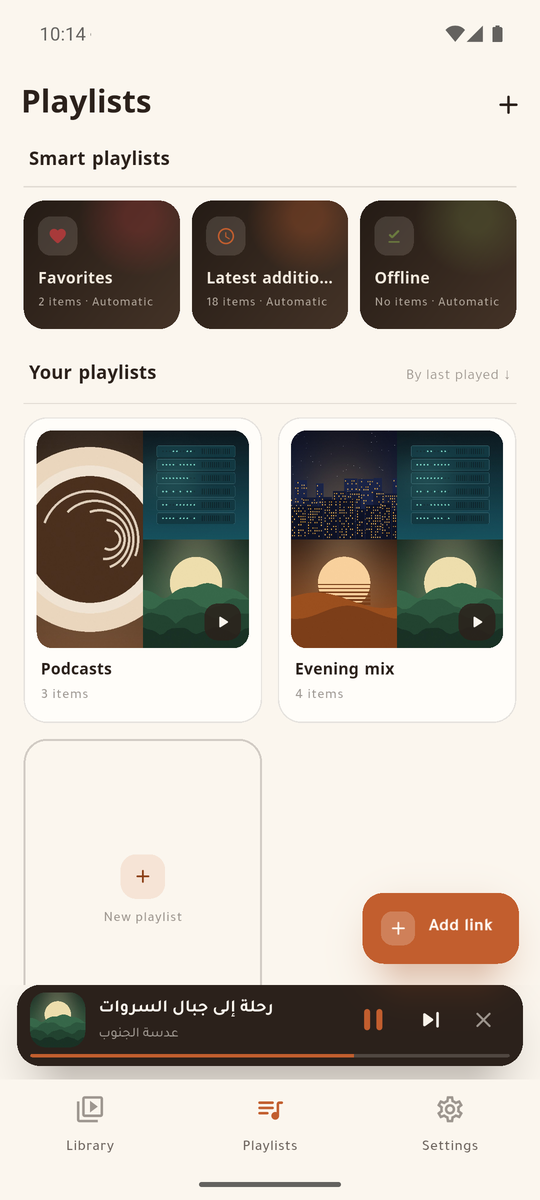
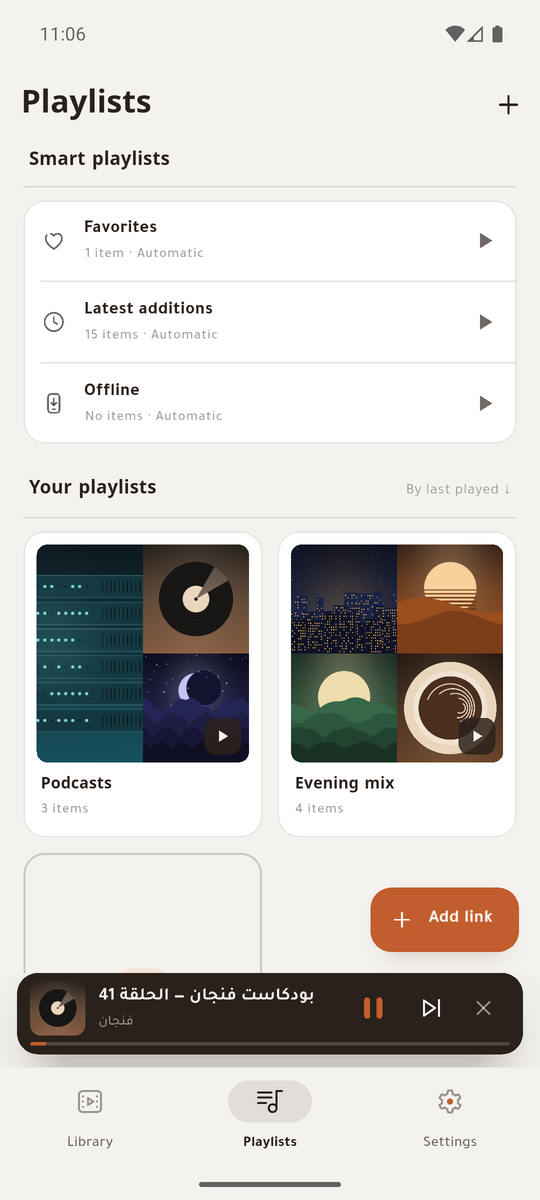
site: MeTube Ember for Windows, a third app card, and fresh screenshots

diff --git a/index.html b/index.html
@@ -3,12 +3,12 @@
 <head>
 <meta charset="utf-8">
 <meta name="viewport" content="width=device-width, initial-scale=1">
-<title>MeTube Mobile — Android clients for a self-hosted MeTube server</title>
-<meta name="description" content="Two open-source Android apps for a self-hosted MeTube (yt-dlp) server. MeTube Lite pulls each download to your phone and clears the server; MeTube Super keeps files on the server, streams them, and searches inside your clips by what was said. Arabic and English, phones and tablets, GPL-3.0.">
+<title>MeTube Mobile — Android and Windows clients for a self-hosted MeTube server</title>
+<meta name="description" content="Open-source apps for a self-hosted MeTube (yt-dlp) server: MeTube Lite pulls each download to your phone and clears the server; MeTube Super keeps files on the server, streams them, and searches inside your clips by what was said; MeTube Ember brings the same library to Windows. Arabic and English, phones, tablets and Windows, GPL-3.0.">
 <link rel="canonical" href="https://sagheerys.github.io/metube-mobile/">
 <meta property="og:type" content="website">
-<meta property="og:title" content="MeTube Mobile — Android clients for MeTube">
-<meta property="og:description" content="Queue a link from your phone, then keep the file on your server and stream it, or pull it to the device and let the server clean itself up.">
+<meta property="og:title" content="MeTube Mobile — Android and Windows clients for MeTube">
+<meta property="og:description" content="Queue a link from your phone or your computer, then keep the file on your server and stream it, or pull it to the device and let the server clean itself up.">
 <meta property="og:url" content="https://sagheerys.github.io/metube-mobile/">
 <meta property="og:image" content="https://sagheerys.github.io/metube-mobile/screenshots/hero.jpg">
 <meta property="og:image:width" content="2000">
@@ -145,6 +145,11 @@ body{transition:background-color .25s ease,color .25s ease}
 @media (prefers-reduced-motion: reduce){body{transition:none}}
 /* ── Tablets: two sideways screens beside an upright one, sized so the
       pair and the single end at the same height; stacked on a phone. ── */
+.ember-shots{display:grid;gap:22px;margin-top:22px}
+.ember-shots .phone img{border-radius:12px}
+@media (min-width:760px){.ember-shots{grid-template-columns:1fr 1fr}.ember-shots .wide{grid-column:1 / -1}}
+.ember{--accent:var(--super)}
+@media (min-width:1100px){.apps.three{grid-template-columns:1fr 1fr 1fr}}
 .tablets{display:grid;gap:22px;margin-top:22px}
 .tablets .phone img{border-radius:16px}
 .tablets .tall{max-width:340px;justify-self:center;width:100%}
@@ -164,15 +169,15 @@ footer{margin-top:56px;border-top:1px solid var(--line);padding-top:22px;font-si
 
   <header class="hero">
     <div>
-      <span class="tag">Unofficial · GPL-3.0 · Android</span>
+      <span class="tag">Unofficial · GPL-3.0 · Android · Windows</span>
       <h1>MeTube Mobile</h1>
-      <p class="lead">Two Android apps for a self-hosted
+      <p class="lead">Two Android apps and a Windows app for a self-hosted
         <a href="https://github.com/alexta69/metube">MeTube</a> server — the yt-dlp
-        web downloader you already run on your NAS or homelab. Share a link from
-        your phone, and either keep the file on the server and stream it, or pull it
-        to the device and let the server clean itself up.</p>
+        web downloader you already run on your NAS or homelab. Send a link from
+        your phone or your computer, and either keep the file on the server and
+        stream it, or pull it to the device and let the server clean itself up.</p>
       <div class="cta">
-        <a class="btn btn-main" href="https://github.com/sagheerys/metube-mobile/releases/latest">Download the APKs</a>
+        <a class="btn btn-main" href="https://github.com/sagheerys/metube-mobile/releases/latest">Download</a>
         <a class="btn btn-ghost" href="https://github.com/sagheerys/metube-mobile">Source on GitHub</a>
       </div>
       <p class="note">Listed in MeTube's own README, under
@@ -187,23 +192,57 @@ footer{margin-top:56px;border-top:1px solid var(--line);padding-top:22px;font-si
     </figure>
   </header>
 
+  <h2>New: MeTube Ember, on Windows</h2>
+  <p>The owner's app on a computer, reading the same server as MeTube Super: the
+     library as a grid, a table or a compact list; the transcript following the
+     video beside it; <kbd>Ctrl</kbd>+<kbd>K</kbd> to search the titles and what was
+     said; a reading room, a mini window, channels and their arrivals, and copies
+     to your computer by download, by drag to Explorer, or with
+     <kbd>Ctrl</kbd>+<kbd>Shift</kbd>+<kbd>C</kbd>. It installs for your user only,
+     with no administrator rights, and updates itself.</p>
+  <div class="ember-shots">
+    <figure class="phone wide">
+      <picture>
+        <source srcset="screenshots/ember-player-night.jpg" media="(prefers-color-scheme: dark)">
+        <img loading="lazy" src="screenshots/ember-player.jpg" width="1600" height="940" alt="MeTube Ember: a video playing, with the transcript beside it marking the line being said, and the player bar beneath">
+      </picture>
+      <figcaption><strong>Watch and read</strong>The transcript follows the video; click a line to jump there.</figcaption>
+    </figure>
+    <figure class="phone">
+      <img loading="lazy" src="screenshots/ember-library.jpg" width="1600" height="940" alt="The MeTube Ember library as a grid of covers, with chips for favourites, video, audio and shorts">
+      <figcaption><strong>Your library</strong>A grid, a table or a compact list.</figcaption>
+    </figure>
+    <figure class="phone">
+      <img loading="lazy" src="screenshots/ember-palette.jpg" width="1600" height="940" alt="The Ctrl+K palette over the library, listing commands">
+      <figcaption><strong>Ctrl+K</strong>Search what was said, or run any command.</figcaption>
+    </figure>
+    <figure class="phone">
+      <img loading="lazy" src="screenshots/ember-channels.jpg" width="1600" height="940" alt="The channels page: four followed channels with what each has brought, and channels in the library to follow">
+      <figcaption><strong>Channels</strong>What each followed channel has brought.</figcaption>
+    </figure>
+    <figure class="phone">
+      <img loading="lazy" src="screenshots/ember-stats-night.jpg" width="1600" height="940" alt="Library statistics at night: clips, room taken, running time, by site, month and channel">
+      <figcaption><strong>Library statistics</strong>What the library holds; nothing is deleted from here.</figcaption>
+    </figure>
+  </div>
+
   <h2>A look inside</h2>
   <p class="note">Every title, channel and cover below is invented for these screenshots; no real server or account appears in them.</p>
   <div class="rail wrap" aria-label="Screenshots of MeTube Super">
     <figure class="phone">
       <picture>
         <source srcset="screenshots/super-search-night.png" media="(prefers-color-scheme: dark)">
-        <img loading="lazy" src="screenshots/super-search.png" width="540" height="1200" alt="A library search for the word backup: one title match, then the lines inside three clips where the word was said, each with its timestamp and the word highlighted">
+        <img loading="lazy" src="screenshots/super-search.png" width="540" height="1200" alt="A library search for the word backup: the lines inside two clips where the word was said, each with its timestamp and the word highlighted">
       </picture>
       <figcaption><strong>Search what was said</strong>Find a word inside your clips, not just in titles, and tap to play from that moment.</figcaption>
     </figure>
     <figure class="phone">
-      <img loading="lazy" src="screenshots/super-transcript.png" width="540" height="1200" alt="The full transcript of an audio episode beneath the player, with the line being spoken marked">
+      <img loading="lazy" src="screenshots/super-transcript.png" width="540" height="1200" alt="The full transcript of a clip over the video, with the line being said marked">
       <figcaption><strong>Read along</strong>The transcript follows playback; tap any line to jump there.</figcaption>
     </figure>
     <figure class="phone">
-      <img loading="lazy" src="screenshots/super-subscriptions.png" width="540" height="1200" alt="Subscriptions: four followed channels, each with how often it is checked, its quality and when it was last checked, one of them paused">
-      <figcaption><strong>Follow a channel</strong>Your server fetches each new video by itself; one notice says what arrived.</figcaption>
+      <img loading="lazy" src="screenshots/super-subscriptions.png" width="540" height="1200" alt="The playlists tab: your tags, then your channels with what each has brought and a switch to pause it">
+      <figcaption><strong>Follow a channel</strong>Your server fetches each new video by itself; one notice says what a subscription brought.</figcaption>
     </figure>
     <figure class="phone">
       <img loading="lazy" src="screenshots/super-player.png" width="540" height="1200" alt="A video streaming from the server with a subtitle over the picture, and the actions and up-next queue beneath it">
@@ -219,7 +258,7 @@ footer{margin-top:56px;border-top:1px solid var(--line);padding-top:22px;font-si
     <figure class="phone">
       <picture>
         <source srcset="screenshots/super-playlists-night.png" media="(prefers-color-scheme: dark)">
-        <img loading="lazy" src="screenshots/super-playlists-day.png" width="540" height="1200" alt="Playlists: three automatic lists above the user's own, each with a cover mosaic">
+        <img loading="lazy" src="screenshots/super-playlists-day.png" width="540" height="1200" alt="Playlists: three automatic lists as rows above the user's own, each with a cover mosaic">
       </picture>
       <figcaption><strong>Playlists</strong>Favourites, latest and offline build themselves; yours sit beneath.</figcaption>
     </figure>
@@ -232,12 +271,12 @@ footer{margin-top:56px;border-top:1px solid var(--line);padding-top:22px;font-si
       <figcaption><strong>Up next, at night</strong>A full night palette, not a half-dark screen.</figcaption>
     </figure>
     <figure class="phone">
-      <img loading="lazy" src="screenshots/super-select.png" width="540" height="1200" alt="Four library items selected, with actions for playlist, tag and delete">
-      <figcaption><strong>Batch actions</strong>Select many: add to a playlist, tag, or delete from the server.</figcaption>
+      <img loading="lazy" src="screenshots/super-reading.png" width="540" height="1200" alt="Reading mode: a clip's transcript as one paragraph, with the sentence being said marked">
+      <figcaption><strong>Read it instead</strong>A clip's words as an article; tap a sentence to hear it from there.</figcaption>
     </figure>
     <figure class="phone">
-      <img loading="lazy" src="screenshots/super-playlist.png" width="540" height="1200" alt="One playlist with play all, shuffle and audio-only buttons">
-      <figcaption><strong>Play all, or just listen</strong>Any playlist plays as video or as audio only.</figcaption>
+      <img loading="lazy" src="screenshots/super-channel.png" width="540" height="1200" alt="One channel's page: how often it is checked, its quality, and its clips in the library">
+      <figcaption><strong>A channel's own page</strong>Check now, pause, edit, and its clips in your library.</figcaption>
     </figure>
     <figure class="phone">
       <img loading="lazy" src="screenshots/lite-shorts.png" width="540" height="1200" alt="The shorts player showing a portrait clip with details, add-to and share">
@@ -267,7 +306,7 @@ footer{margin-top:56px;border-top:1px solid var(--line);padding-top:22px;font-si
   </div>
 
   <h2>Which app is for you</h2>
-  <div class="apps">
+  <div class="apps three">
     <section class="app lite">
       <div class="app-head">
         <h3>MeTube Lite</h3>
@@ -293,8 +332,20 @@ footer{margin-top:56px;border-top:1px solid var(--line);padding-top:22px;font-si
         <dt>Also has</dt><dd>Channel subscriptions — the server fetches each new video by itself and the app tells you when it arrives — plus subtitles over the video, tags, batch downloads, make available offline, a server card that says what the server holds and runs, and two addresses it switches between.</dd>
       </dl>
     </section>
+    <section class="app ember">
+      <div class="app-head">
+        <h3>MeTube Ember</h3>
+        <p class="for">For the same person, at a Windows computer.</p>
+      </div>
+      <dl>
+        <dt>After a download</dt><dd>Keeps everything on the server, and copies a clip to this computer when you ask.</dd>
+        <dt>Library</dt><dd>The same merged library, as a grid, a table or a compact list.</dd>
+        <dt>Playback</dt><dd>In the window, beside its transcript, or in a mini window on top.</dd>
+        <dt>Also has</dt><dd>Ctrl+K, a reading room, channels, drag a clip to Explorer, a "To Ember" button for your browser, and optional sync with MeTube Super through a folder you choose.</dd>
+      </dl>
+    </section>
   </div>
-  <p class="note" style="margin-top:14px">They are separate apps and install side by side.</p>
+  <p class="note" style="margin-top:14px">They are separate apps: the two phone apps install side by side, and Ember needs Windows 10 or 11 on x64.</p>
 
   <h2>MeTube Lite, start to finish</h2>
   <div class="split">
@@ -309,6 +360,7 @@ footer{margin-top:56px;border-top:1px solid var(--line);padding-top:22px;font-si
       <div class="rail pair" aria-label="Screenshots of MeTube Lite">
         <figure class="phone"><img loading="lazy" src="screenshots/lite-day.png" width="540" height="1200" alt="The MeTube Lite library by day"><figcaption>By day</figcaption></figure>
         <figure class="phone"><img loading="lazy" src="screenshots/lite-night.png" width="540" height="1200" alt="The MeTube Lite library at night"><figcaption>At night</figcaption></figure>
+        <figure class="phone"><img loading="lazy" src="screenshots/lite-playlists.png" width="540" height="1200" alt="MeTube Lite playlists: favourites and the latest additions as rows, then your own"><figcaption>Playlists</figcaption></figure>
       </div>
     </div>
     <figure class="phone">
@@ -317,12 +369,13 @@ footer{margin-top:56px;border-top:1px solid var(--line);padding-top:22px;font-si
     </figure>
   </div>
 
-  <h2>Shared by both</h2>
+  <h2>Shared by all three</h2>
   <ul>
     <li>Background audio with a media notification and lock-screen controls, a mini player, and a lane for portrait clips.</li>
     <li>Playlists, favourites, search, and plain-JSON backups that hold no secret.</li>
     <li>In-app updates, straight from the GitHub releases page.</li>
     <li>A tablet layout, upright and sideways: a side rail, two-pane settings, and the player beside the library.</li>
+    <li>Chips that put every clip under one of video, shorts or audio, so videos can be seen without the shorts.</li>
     <li>A day palette and a night palette, each drawn on purpose.</li>
     <li>Arabic and English, right-to-left first.</li>
   </ul>
@@ -342,7 +395,7 @@ footer{margin-top:56px;border-top:1px solid var(--line);padding-top:22px;font-si
 
   <h2>Links</h2>
   <ul>
-    <li><a href="https://github.com/sagheerys/metube-mobile/releases/latest">Latest release</a> — one signed APK per app</li>
+    <li><a href="https://github.com/sagheerys/metube-mobile/releases/latest">Latest release</a> — one file per app: two APKs and a Windows installer</li>
     <li><a href="https://github.com/sagheerys/metube-mobile">Repository</a> — a Flutter monorepo, GPL-3.0</li>
     <li><a href="https://github.com/sagheerys/metube-mobile/blob/main/CHANGELOG.md">Changelog</a></li>
     <li><a href="https://github.com/sagheerys/metube-mobile/issues">Issues</a> — in Arabic or English</li>
@@ -350,17 +403,22 @@ footer{margin-top:56px;border-top:1px solid var(--line);padding-top:22px;font-si
 
   <section class="ar" lang="ar" dir="rtl">
     <h2 style="margin-top:0">بالعربية</h2>
-    <p class="lead">تطبيقان لأندرويد لسيرفر
+    <p class="lead">تطبيقان لأندرويد وتطبيق لويندوز لسيرفر
       <a href="https://github.com/alexta69/metube">MeTube</a> الذي تستضيفه بنفسك.
-      شارك الرابط من جوالك، ثم إما أن يبقى الملف على السيرفر فتشغّله بثّاً، أو
-      يُسحب إلى جهازك ويُنظَّف السيرفر تلقائياً.</p>
+      أرسل الرابط من جوالك أو حاسوبك، ثم إما أن يبقى الملف على السيرفر فتشغّله
+      بثّاً، أو يُسحب إلى جهازك ويُنظَّف السيرفر تلقائياً.</p>
+
+    <figure class="phone" style="margin:22px 0 10px">
+      <img loading="lazy" src="screenshots/ember-library-ar.jpg" width="1600" height="940" style="border-radius:12px" alt="MeTube Ember بالعربية: المكتبة شبكةً من الأغلفة، والنص بجانب الفيديو">
+      <figcaption>جديد: MeTube Ember على ويندوز، بالواجهة العربية.</figcaption>
+    </figure>
 
     <figure class="phone" style="margin:22px 0 26px">
       <img loading="lazy" src="screenshots/hero-ar.jpg" width="2000" height="1137" style="border-radius:18px;border-width:1px" alt="MeTube Super بالعربية: المكتبة، ومقطع فيديو مع ترجمته وقائمة «التالي»، ومشغل الصوت ليلاً، وقوائم التشغيل">
       <figcaption>الواجهة العربية من اليمين إلى اليسار. كل عنوان وغلاف هنا مخترَع.</figcaption>
     </figure>
 
-    <div class="apps">
+    <div class="apps three">
       <section class="app lite">
         <div class="app-head">
           <h3>MeTube Lite</h3>
@@ -386,6 +444,18 @@ footer{margin-top:56px;border-top:1px solid var(--line);padding-top:22px;font-si
           <dt>وفيه أيضاً</dt><dd>اشتراكات القنوات: ينزّل السيرفر كل مقطع جديد وحده ويخبرك التطبيق حين يصل. ومعها ترجمة تظهر فوق الفيديو، ووسوم، وتنزيل دفعات، و«إتاحة دون اتصال»، وبطاقة تعرض ما على السيرفر ونسخته، وعنوانان بتبديل تلقائي.</dd>
         </dl>
       </section>
+      <section class="app ember">
+        <div class="app-head">
+          <h3>MeTube Ember</h3>
+          <p class="for">لمالك السيرفر نفسه، على حاسوب ويندوز.</p>
+        </div>
+        <dl>
+          <dt>بعد التنزيل</dt><dd>يُبقي كل شيء على السيرفر، وينسخ المقطع إلى الحاسوب حين تطلب.</dd>
+          <dt>المكتبة</dt><dd>المكتبة الموحَّدة نفسها، شبكةً أو جدولاً أو قائمة مضغوطة.</dd>
+          <dt>التشغيل</dt><dd>في النافذة بجانب النص، أو في نافذة مصغّرة فوق كل شيء.</dd>
+          <dt>وفيه أيضاً</dt><dd>Ctrl+K، وغرفة القراءة، والقنوات، وسحب المقطع إلى المستكشف، وزر «إلى Ember» في المتصفح، ومزامنة اختيارية مع MeTube Super عبر مجلد تختاره.</dd>
+        </dl>
+      </section>
     </div>
 
     <ul style="margin-top:22px">
@@ -394,6 +464,7 @@ footer{margin-top:56px;border-top:1px solid var(--line);padding-top:22px;font-si
       <li>قوائم تشغيل ومفضلة وبحث، ونسخ احتياطية بصيغة JSON لا تحمل أي سرّ.</li>
       <li>في Super: البحث داخل المقاطع بما قيل فيها، والضغط على النتيجة يشغّل المقطع من تلك اللحظة، والنص يتبع التشغيل سطراً سطراً.</li>
       <li>تخطيط خاص بالتابلت، عمودياً وأفقياً: شريط تنقّل جانبي، وإعدادات في لوحتين، ومشغّل بجانب المكتبة.</li>
+      <li>رقاقات تضع كل مقطع تحت واحد من فيديو وقِصار وصوت، فترى الفيديوهات بلا القِصار.</li>
       <li>تحديث ذاتي من صفحة الإصدارات.</li>
       <li>واجهة عربية كاملة من اليمين إلى اليسار، بوضعين نهاري وليلي.</li>
     </ul>
@@ -456,7 +527,7 @@ footer{margin-top:56px;border-top:1px solid var(--line);padding-top:22px;font-si
   "name": "MeTube Mobile",
   "author": { "@type": "Person", "name": "Yasir Sagheer", "url": "https://github.com/sagheerys" },
   "applicationCategory": "MultimediaApplication",
-  "operatingSystem": "Android",
+  "operatingSystem": "Android, Windows",
   "license": "https://www.gnu.org/licenses/gpl-3.0.html",
   "url": "https://sagheerys.github.io/metube-mobile/",
   "downloadUrl": "https://github.com/sagheerys/metube-mobile/releases/latest",
@@ -464,7 +535,7 @@ footer{margin-top:56px;border-top:1px solid var(--line);padding-top:22px;font-si
   "screenshot": "https://sagheerys.github.io/metube-mobile/screenshots/hero.jpg",
   "inLanguage": ["en", "ar"],
   "offers": { "@type": "Offer", "price": "0", "priceCurrency": "USD" },
-  "description": "Two Android clients for a self-hosted MeTube (yt-dlp) server: Lite pulls each download to the phone and clears the server, Super keeps files on the server and streams them."
+  "description": "Clients for a self-hosted MeTube (yt-dlp) server: Lite pulls each download to the phone and clears the server, Super keeps files on the server and streams them, and Ember brings the same library to Windows."
 }
 </script>
 </body>
